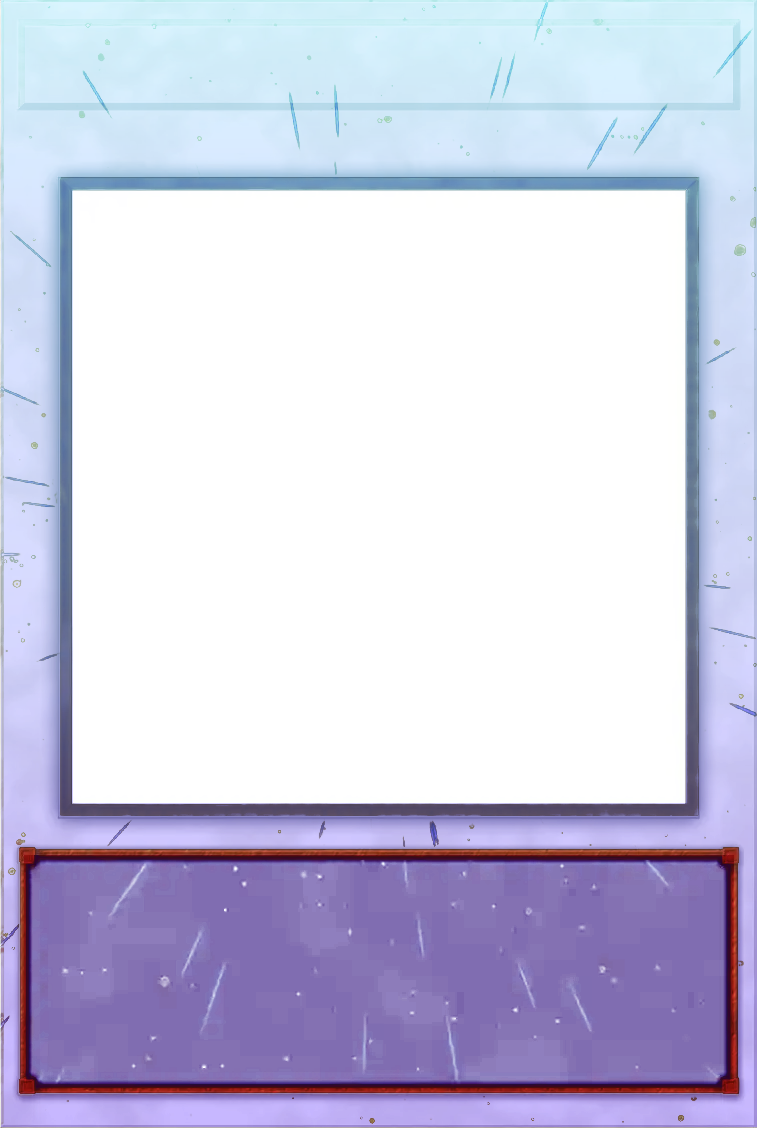
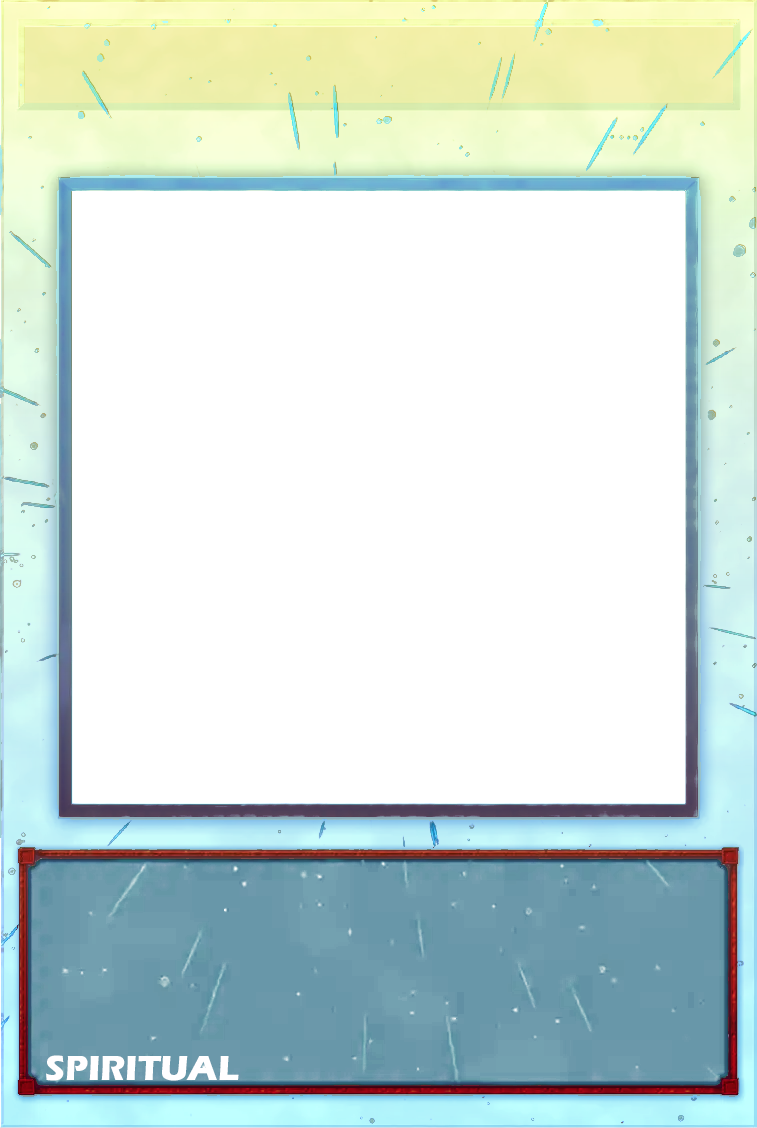
Update Spiritual frame and Zombyra deck names

diff --git a/Scripts/DB_Custom_Frames.user.js b/Scripts/DB_Custom_Frames.user.js
@@ -1,7 +1,7 @@
 // ==UserScript==
 // @name         DB_Custom_Frames
 // @namespace    http://tampermonkey.net/
-// @version      1.8.4
+// @version      1.8.5
 // @homepageURL  https://github.com/yanislavivanovyanev/YIY_YGO_Customs/
 // @updateURL    https://raw.githubusercontent.com/yanislavivanovyanev/YIY_YGO_Customs/main/Scripts/DB_Custom_Frames.user.js
 // @downloadURL  https://raw.githubusercontent.com/yanislavivanovyanev/YIY_YGO_Customs/main/Scripts/DB_Custom_Frames.user.js
@@ -14,7 +14,7 @@
 (function() {
     'use strict';
 
-    const VERSION = "v13";
+    const VERSION = "v14";
 
     const URL_START = "https://yanislavivanovyanev.github.io/YIY_YGO_Customs/";
 
@@ -100,26 +100,27 @@
 //YaniYa Frame names
 
     const LINK_FUSION_NAMES_YY = [
-     "Avendread Savior", "Evil HERO - The Darkest Knight", "Elemental HERO - The Dark Bright", //D.HERO-Zombyra T/D/D
+     "Elemental HERO - The Dark Bright", "Masked HERO - The Dark Law", "Lord of The Dark", "Evil HERO - The Dark Gaia", "Evil HERO - The Darkest Knight", //D.HERO-Zombyra T/D/D
+        "The Neosphere of Darkness", "Destiny HERO - Dusktopia",
     ];
 
     const EVOLUTION_NAMES_YY = [
      "Horus the Black Flame Dragon LV8", "Horus the Black Flame Deity", "Ruddy Rose Dragon", //AZDG Uria
      "Supreme King Gate Infinity", "Sphere of Chaos", "Elemental HERO Spirit of Neos", "Light and Darkness Dragonlord", "Cyberdark End Dragon", //Nothingverse
-     "Revendread Executor", "The Wicked Dreadroot", "Underworld Fighter Balmung", "Destiny HERO - Destroyer Phoenix Enforcer", //D.HERO-Zombyra T/D/D
-        "Destiny HERO - Dogma",
+     "Underworld Fighter Balmung", "The Dark Crusader", "Despair from The Dark", "Destiny HERO - Dogma", "Destiny HERO - Destroyer Phoenix Enforcer", //D.HERO-Zombyra T/D/D
+        "RevenDread Executor", "Evil HERO - Infernal Gainer", "Evil HERO - Sinister Necrom", "Evil HERO - Malicious Edge", "The Wicked Dreadroot",
      "The Unstoppable Exodia Incarnate", //Exodia
     ];
 
     const EVOLUTION_SPELL_NAMES_YY = [
-     "Revendread Evolution", //D.HERO-Zombyra T/D/D
+     "RevenDread Evolution", //D.HERO-Zombyra T/D/D
         
     ];
 
     const SPIRITUAL_NAMES_YY = [
      "Jack-o-Bolan", "Doomkaiser Dragon / Assault Mode", //AZDG Uria
      "Shell of Chaos", "Supreme King Gate Zero", "Black Dragon Colapserpent", //Nothingverse
-     "Destiny HERO - Plasma", "Destiny HERO - Dangerous", //D.HERO-Zombyra T/D/D
+     "Fear from The Dark", "Destiny HERO - Plasma", "Elemental HERO - The Deep Darkness", //D.HERO-Zombyra T/D/D
     ];
 
     const TOKEN_NAMES_YY = [
@@ -242,6 +243,7 @@
 
         if(!fullArtName)
         {
+            cardFront.find('.effect_txt').css('z-index', '0');
             cardFront.find('.card_border, .card_color').css('z-index', '0');
             cardFront.find('.monster_line').removeClass('monster-line-fullart');
             cardFront.find('[class*="_txt"]').removeClass('white-outline-text');
@@ -254,7 +256,6 @@
         if(!fullArtName && !smallFullArtName)
         {
             cardFront.removeClass('full-art');
-            cardFront.find('.effect_txt').css('z-index', '0');
             cardFront.find('.black_arrow').css('z-index', '0');
             return;
         }
@@ -262,7 +263,6 @@
     //both
         cardFront.addClass('full-art');
         cardFront.data('pic', FULL_ART_URL + (fullArtName != undefined ? fullArtName : smallFullArtName) + ".png");
-        cardFront.find('.effect_txt').css('z-index', '-1');
         cardFront.find('.black_arrow').css('z-index', '-1');
     //smallFullArt
         if(smallFullArtName)
@@ -271,6 +271,7 @@
             return;
         }
     //fullArt
+        cardFront.find('.effect_txt').css('z-index', '-1');
         cardFront.find('.card_border, .card_color').css('z-index', '-1');
         cardFront.find('.monster_line').addClass('monster-line-fullart');
         cardFront.find('[class*="_lbl"]').addClass('white-outline-text');

diff --git a/Scripts/Custom_DB_Custom.user.js b/Scripts/Custom_DB_Custom.user.js
@@ -4,7 +4,7 @@
 // @name         Custom_DB_Custom
 
 // @description  Adds options to customize DB and make it more streamer friendly
-// @version      1.4.4
+// @version      1.4.5
 // @author       Killburne
 // @license		 MIT
 // @namespace    https://www.yugioh-api.com/